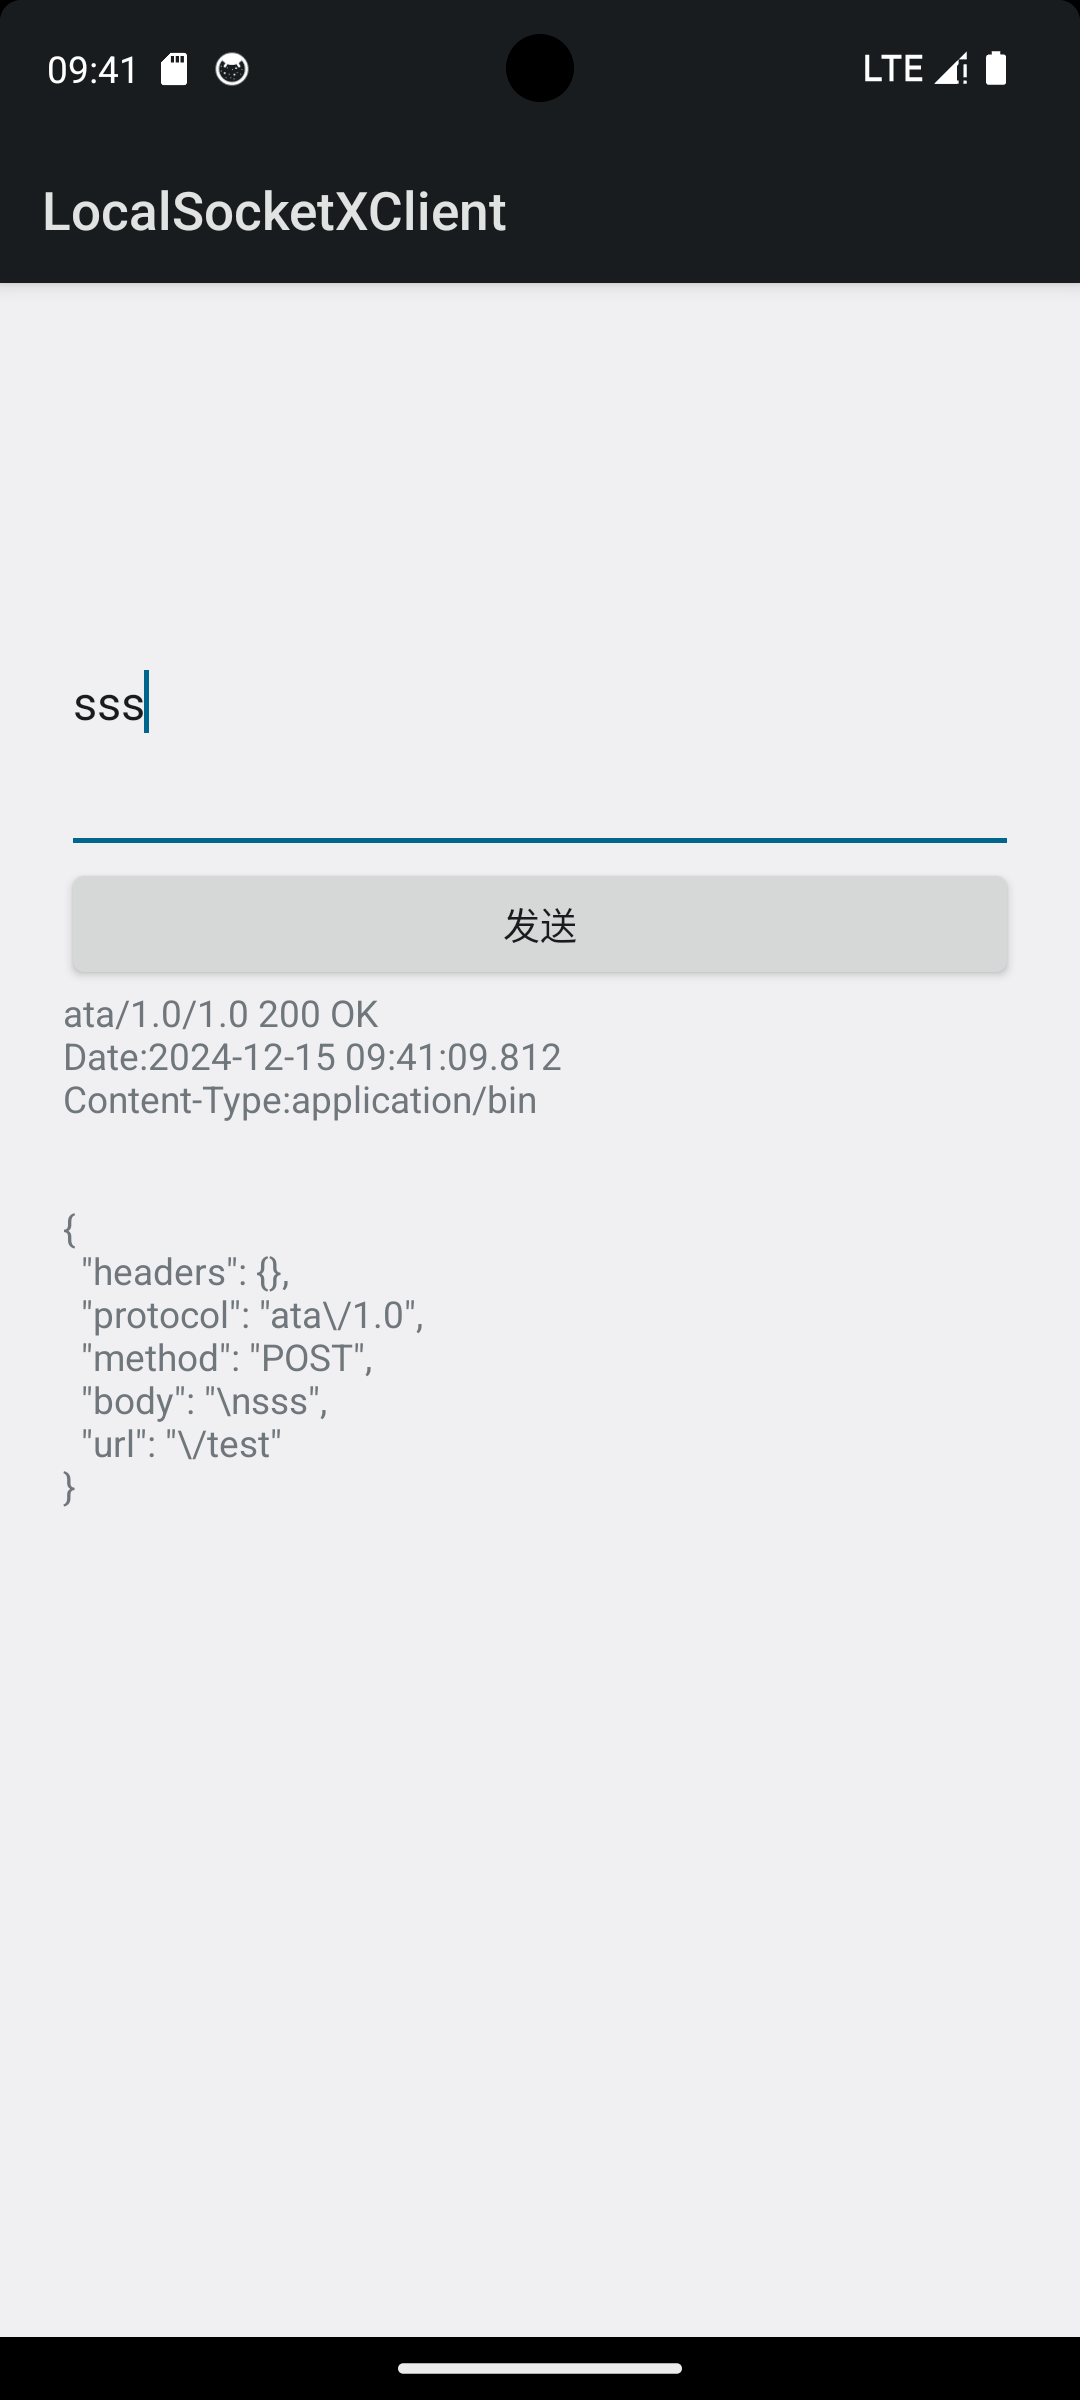
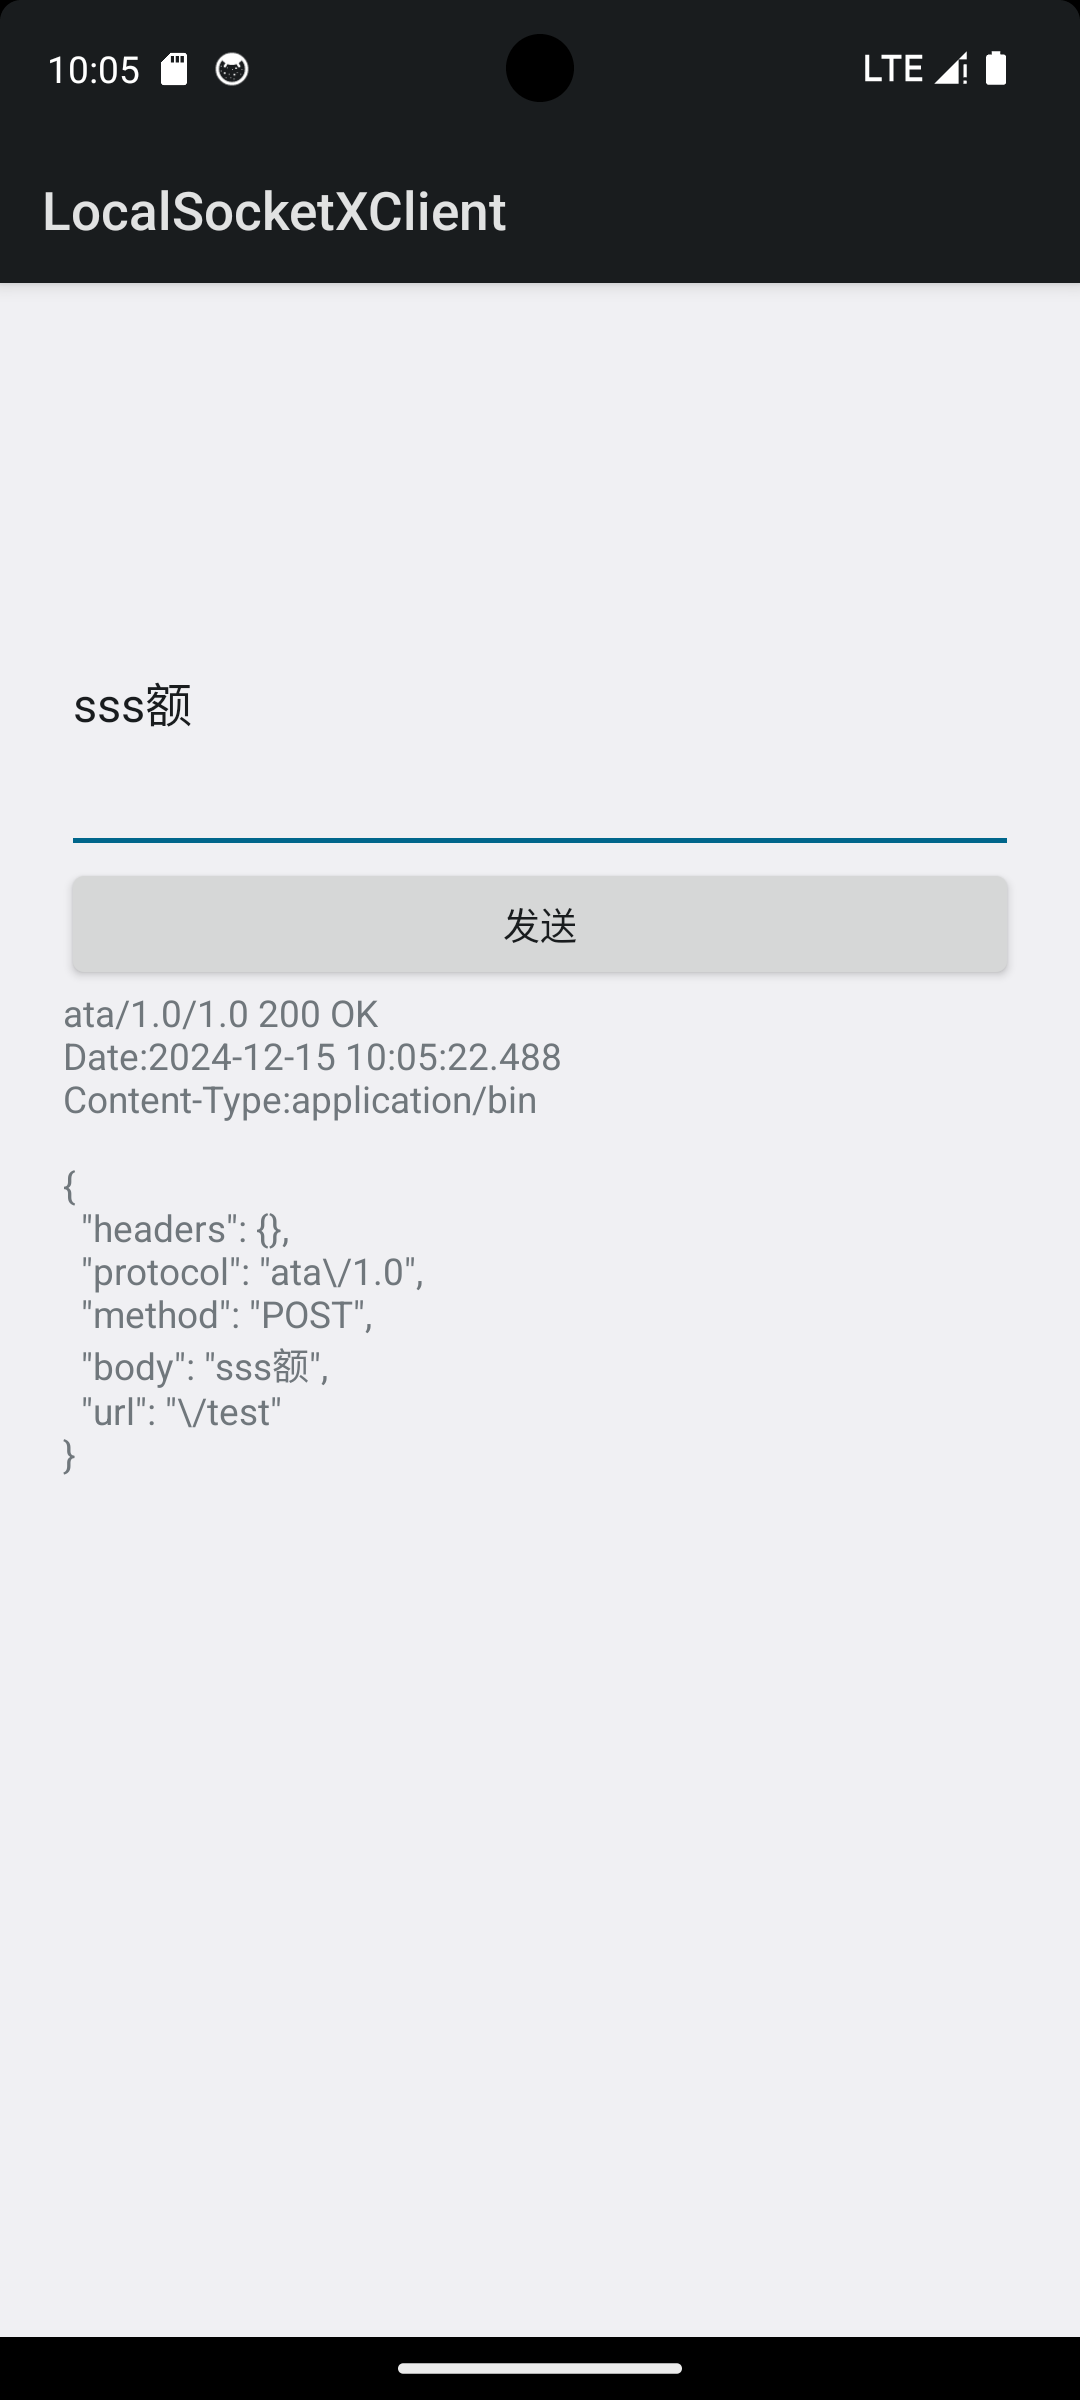
[fix] fix body data parse

diff --git a/core/src/main/java/com/lu/ata/AtaMessageParser.java b/core/src/main/java/com/lu/ata/AtaMessageParser.java
@@ -64,7 +64,9 @@ public class AtaMessageParser {
         for (int i = 0; i < bin.length; i++) {
             byte b = bin[i];
             if (b == '\n' && i + 1 < bin.length) {
+                // head end
                 if (bin[i + 1] == '\n') {
+                    // split line
                     headLen = i;
                     break;
                 }
@@ -74,7 +76,7 @@ public class AtaMessageParser {
         byte[] headBytes = new byte[headLen];
 
         // headLen index为分割符，headLen +1 为body 起始index
-        int bodyStartIndex = headLen + 1;
+        int bodyStartIndex = headLen + 2;
         int bodyLength = bin.length - bodyStartIndex;
         byte[] bodyBytes = new byte[bodyLength];
         System.arraycopy(bin, 0, headBytes, 0, headLen);
